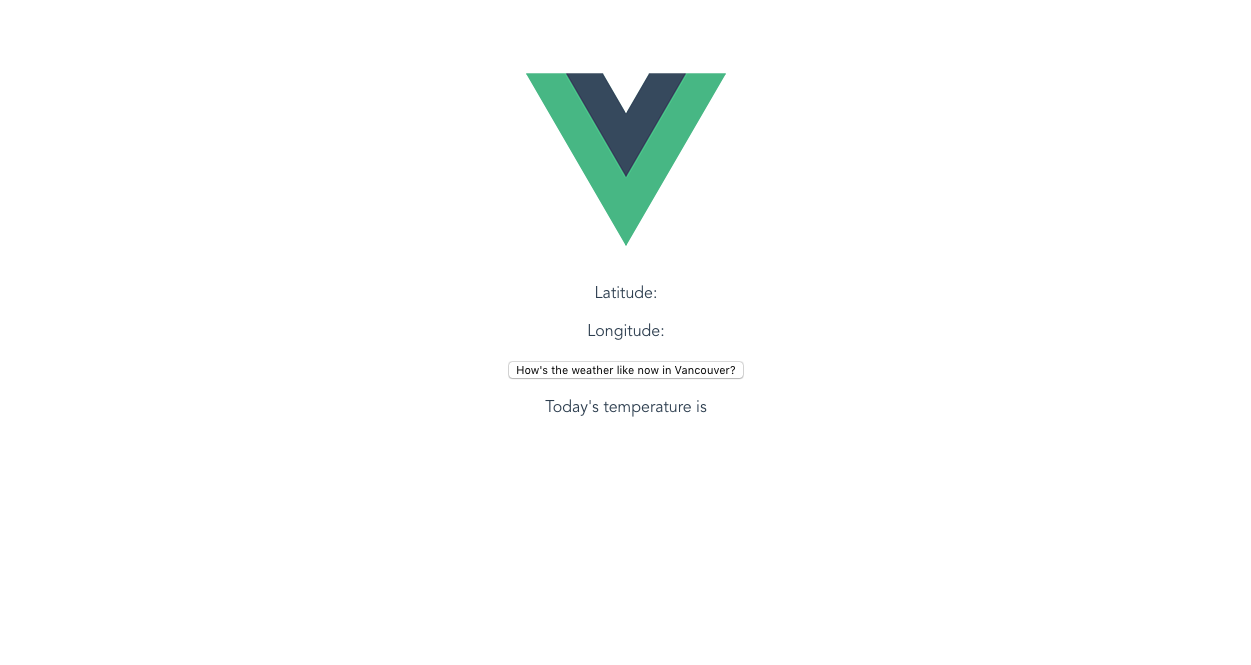
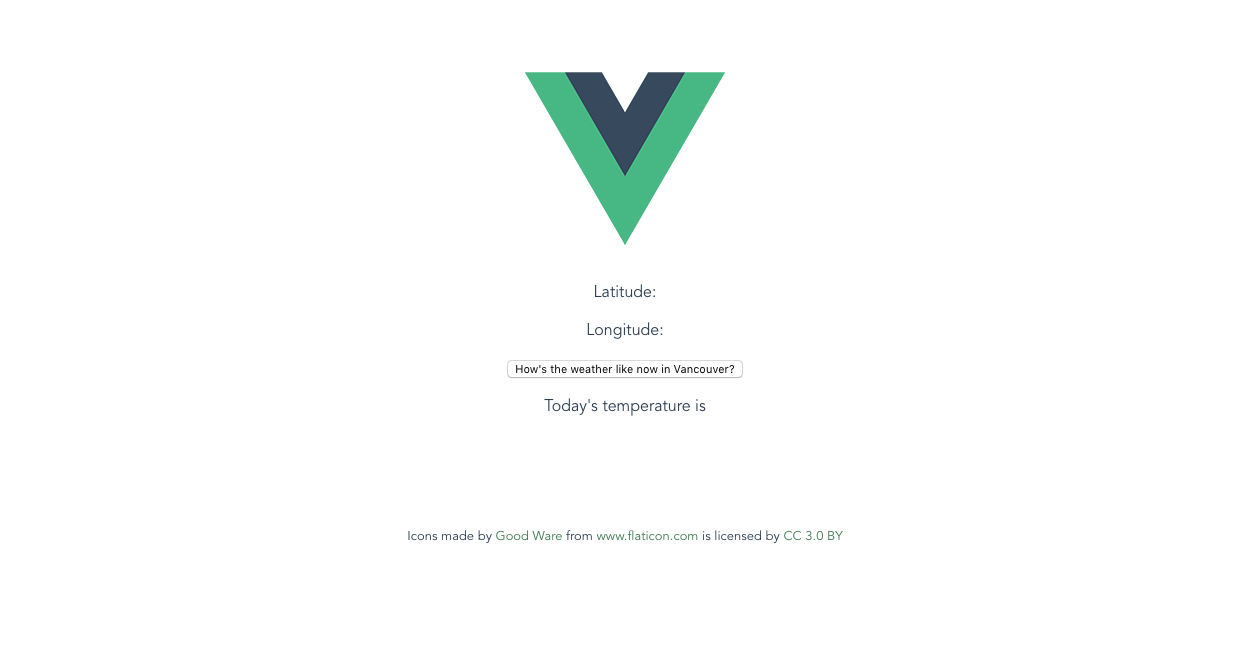
minor update

diff --git a/index.html b/index.html
@@ -8,5 +8,22 @@
   <body>
     <div id="app"></div>
     <!-- built files will be auto injected -->
+    <div class="credit">Icons made by <a href="https://www.flaticon.com/authors/good-ware" title="Good Ware">Good Ware</a> from <a href="https://www.flaticon.com/" title="Flaticon">www.flaticon.com</a> is licensed by <a href="http://creativecommons.org/licenses/by/3.0/" title="Creative Commons BY 3.0" target="_blank">CC 3.0 BY</a></div>
+    <style>
+      .credit {
+        font-family: 'Avenir', Helvetica, Arial, sans-serif;
+        -webkit-font-smoothing: antialiased;
+        -moz-osx-font-smoothing: grayscale;
+        text-align: center;
+        color: #2c3e50;
+        margin-top: 60px;
+        font-size: small;
+        padding-top: 50px;
+      }
+      .credit a {
+        color: #407A52;
+        text-decoration: none;
+      }
+    </style>
   </body>
 </html>
